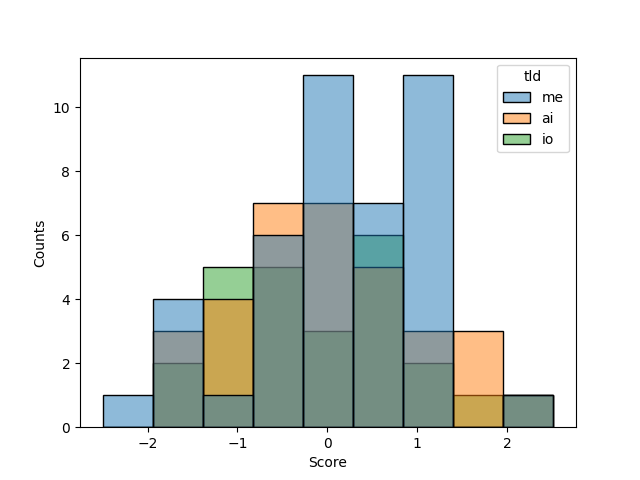
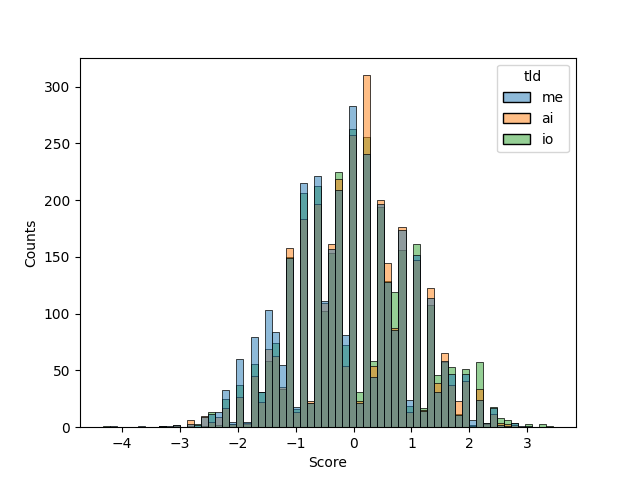
add example images, readme

diff --git a/qr_code.py b/qr_code.py
@@ -11,7 +11,7 @@ import seaborn as sns
 import matplotlib.pyplot as plt
 
 # Args
-parallel = True
+parallel = False
 num_procs = 2
 num_extremal = 2
 
@@ -19,7 +19,7 @@ random_case = False
 include_slash = True
 include_numbers = True
 
-num_random_urls = 100
+num_random_urls = 10000
 num_chars = 5
 tld = None
 random_tlds = ["io", "ai", "me"]

diff --git a/README.md b/README.md
@@ -1,0 +1,14 @@
+# QR Code Generator
+
+This project generates domains randomly and scores their corresponding QR codes according to heuristics intended as QR codes.
+
+# Distribution of Scores
+![scores](sample_dist.png)
+
+## Good QR Code Examples
+![good](images/max_0_ktyxu.io.png)
+![good](images/max_1_wfrgu.io.png)
+
+## Bad QR Code Examples
+![bad](images/min_1_jiiyz.io.png)
+![bad](images/min_2_xtac5.me.png)
